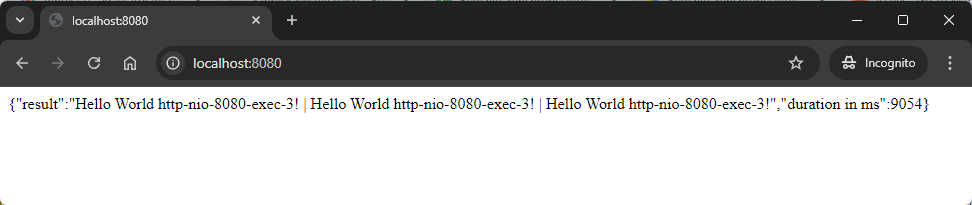
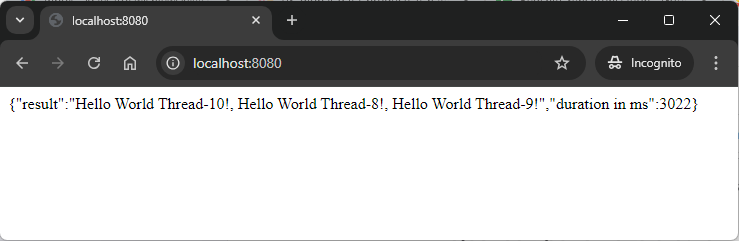
Update Readme file

diff --git a/others/threads-inner/fe-springboot-be-springboot-threads-inner-runnable/README.md b/others/threads-inner/fe-springboot-be-springboot-threads-inner-runnable/README.md
@@ -2,7 +2,7 @@ DESCRIPTION
 -----------
 
 ##### Goal
-The goal of this project is to present how to use **no threads** in **inner** method of FE application calling BE application in chain of applications (services). Back-End application **works 3 seconds per call**. Front-End application calls **3 times** Back-End application in one inner method. So without multithread expected result of method call is about **9 seconds**.
+The goal of this project is to present how to use **classic threads** in **inner** method of FE application calling BE application in chain of applications (services). Back-End application **works 3 seconds per call**. Front-End application calls **3 times** Back-End application in one inner method. So with multithread expected result of method call is about **3 seconds**.
 
 This chain of services consists of following applications:
 * **Back-End**: an application created in **Java** programming language with usage **Spring Boot** framework
@@ -16,13 +16,15 @@ Terminology explanation:
 * **Spring Boot**: framework for Java. It consists of: Spring + Container + Configuration
 * **Back-End**: The back-end refers to the server-side part of a software application, responsible for managing the database, server logic, and application programming interface (API). It processes requests from the front-end (user interface), handles data storage, retrieval, and business logic, and sends the appropriate responses back to the front-end.
 * **Front-End**: Front-end refers to the part of a website or application that users interact with directly. It includes the visual elements, layout, and design, typically built using HTML, CSS, and JavaScript. The front-end is responsible for the user experience (UX) and interface (UI) that allows users to navigate and interact with the system.
+* **Thread**: A thread in Java is a lightweight unit of execution within a program that allows multiple tasks to run concurrently. It shares the same memory and resources with other threads of the same process, enabling efficient multitasking. Java's Thread class or the Runnable interface can be used to create and manage threads.
 
 ##### Implementation
 Implementation details for Back-End:
 * Pause flow for 3 seconds by **Thread.sleep(3000);**
 
 Implementation details for Front-End:
-* Limit Tomcat threads to 10 by adding property **server.tomcat.threads.max=10** (by default Tomcat uses from 10 to 200 threads)
+* Implement interface **Runnable** and use it in a constructor of class **Thread**. Then use method **start()** to run it in separate thread.
+* Use class **CountDownLatch** to wait for results of all three threads and then display result.
 
 
 EXAMPLE
@@ -48,7 +50,7 @@ USAGE MANUAL
 1. In the first command line tool **start Back-End application** with `mvn -f ./fe-springboot-be-springboot-threads-inner-runnable_BE spring-boot:run`
 1. In the second command line tool **start Front-End application** with `mvn -f ./fe-springboot-be-springboot-threads-inner-runnable_FE spring-boot:run`
 1. In a browser visit `http://localhost:8080`
-   * Expected HTML page with similar JSON: **{"result":"Hello World http-nio-8080-exec-1! | Hello World http-nio-8080-exec-1! | Hello World http-nio-8080-exec-1!","duration in ms":9164}**
+   * Expected HTML page with similar JSON: **{"result":"Hello World http-nio-8080-exec-1! | Hello World http-nio-8080-exec-1! | Hello World http-nio-8080-exec-1!","duration in ms":3164}**
 1. Clean up environment:
      * In the second command line tool **stop Front-End application** with `ctrl + C`
      * In the first command line tool **stop Back-End application** with `ctrl + C`
